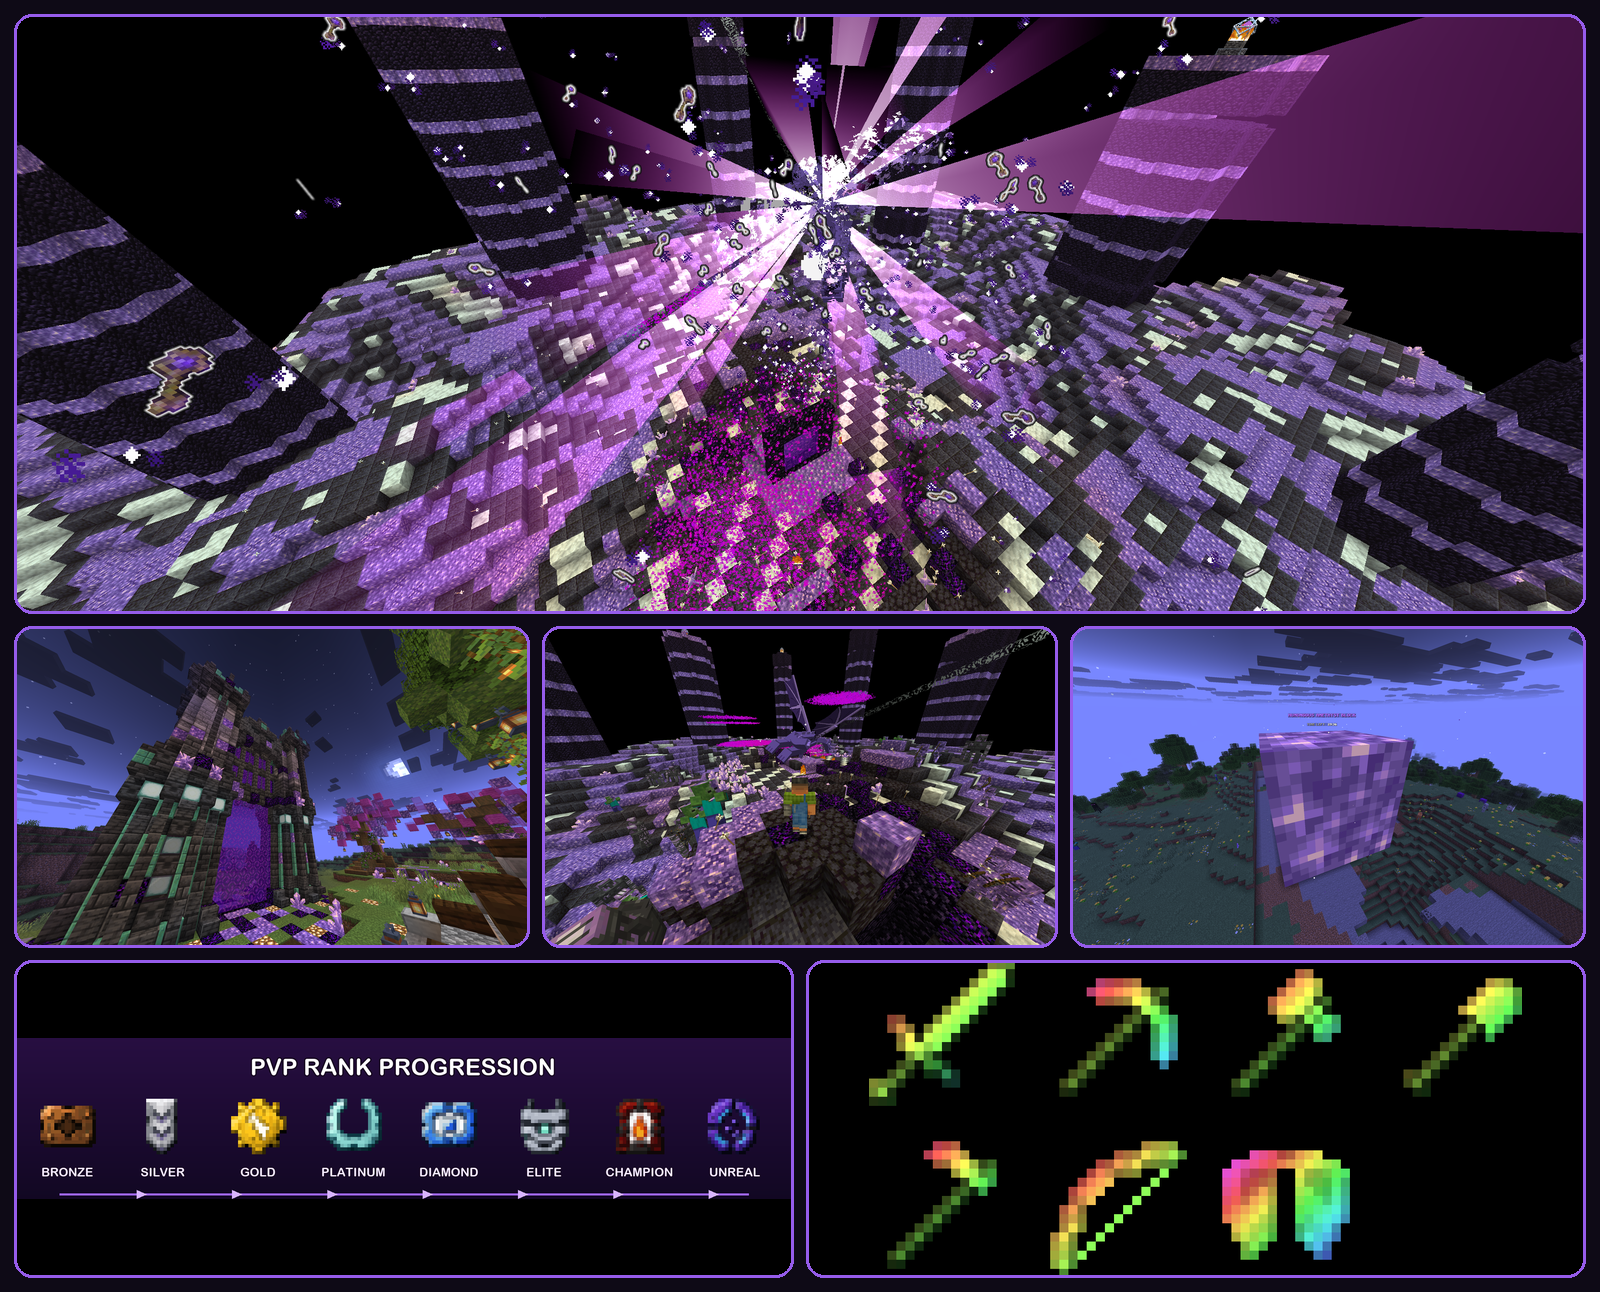
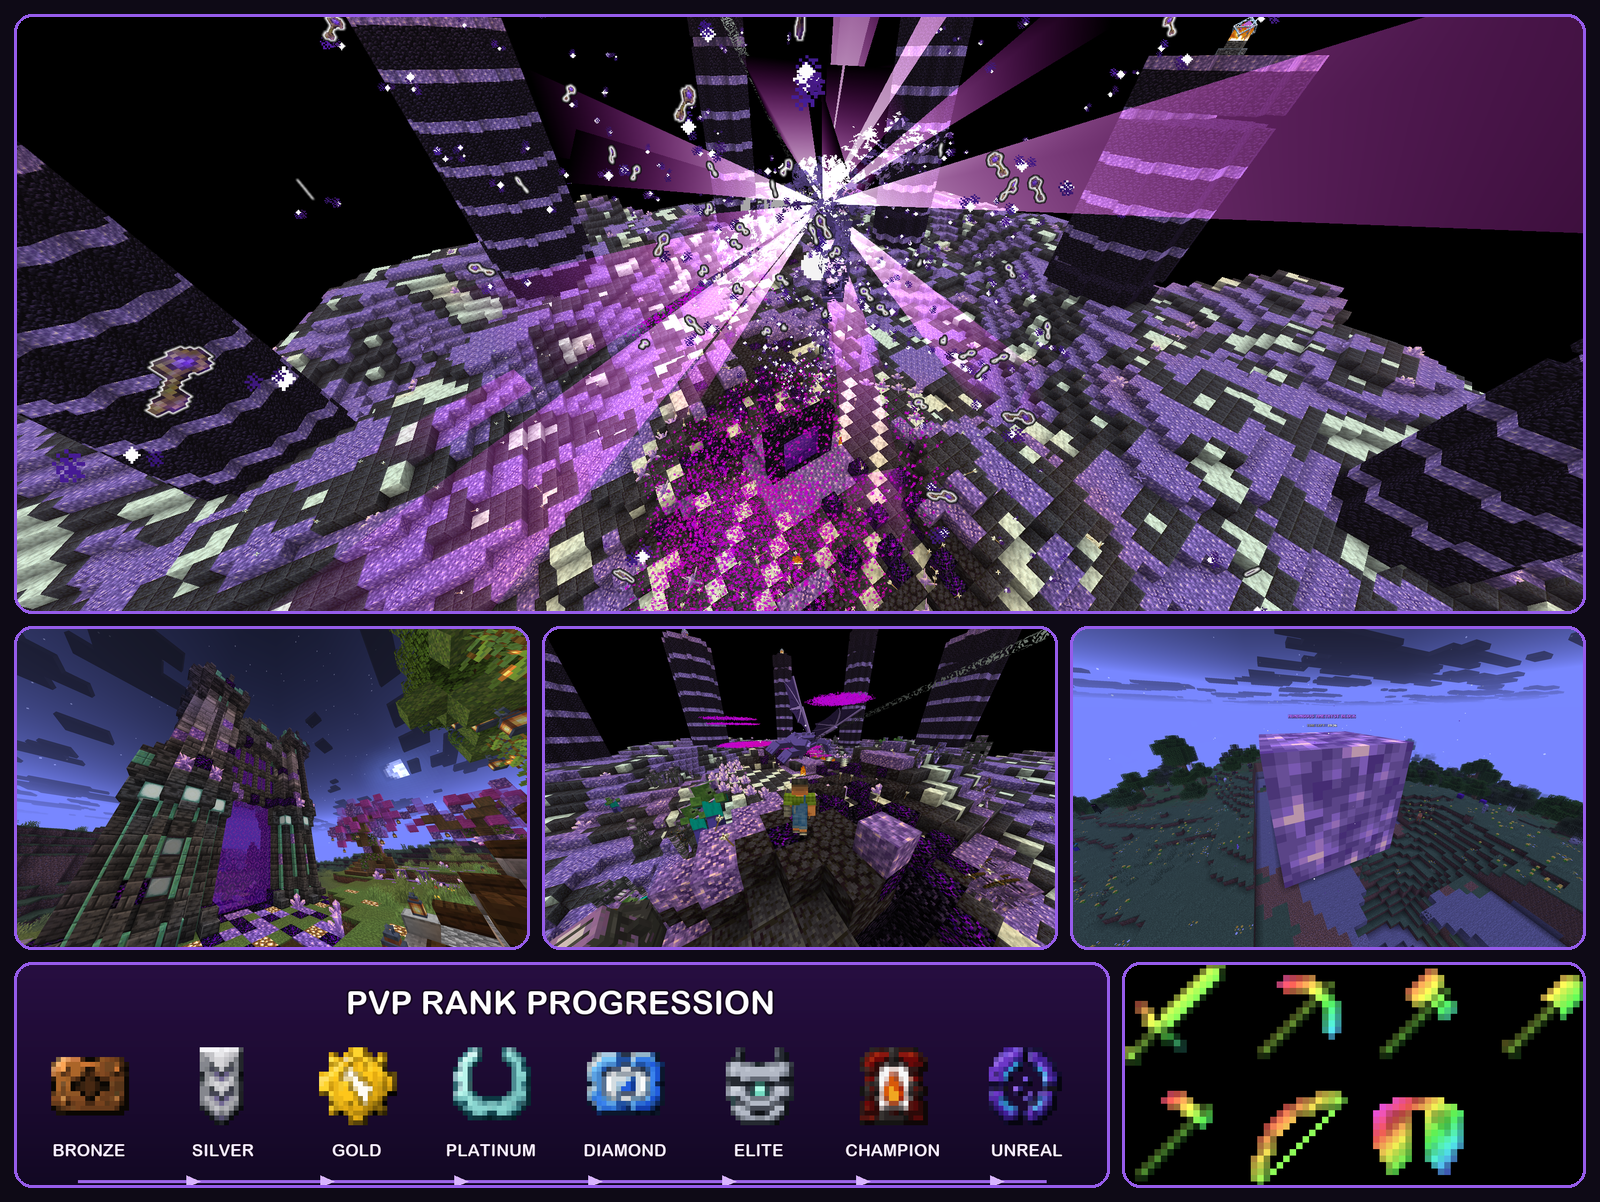
fix: justify the collage rows, and drop the closing plug
Fixed cells were the spacing bug. A 3.6:1 rank ladder letterboxed into a 2.45:1
cell is a third padding, the tile beside it padded by a different amount, and the
eye reads those uneven bands as broken rather than as design.

Rows are justified now: every tile in a row shares one height and is as wide as
its own picture wants to be, so each is filled edge to edge and both margins line
up exactly. Rows no longer need to be told what shape their contents are.

The two closing lines pushing people to the site are gone; the lead's link and the
button already carry that click.

diff --git a/devblog/notice_collage.py b/devblog/notice_collage.py
@@ -52,9 +52,9 @@ DEFAULT_TILES = {
         ("eternal-gear.png", "contain", ""),
     ],
 }
-#: Tiles per row under the hero, and how wide each row's cells sit. World shots
-#: want something near 16:9; designed panels are far wider than that.
-DEFAULT_ROWS = ((3, 1.60), (2, 2.45))
+#: How many tiles sit in each row under the hero. Their widths come from the
+#: pictures themselves, so nothing has to be told what shape it is.
+DEFAULT_ROWS = (3, 2)
 
 
 def _trim(image: Image.Image) -> Image.Image:
@@ -132,43 +132,67 @@ def _caption(tile: Image.Image, text: str) -> None:
     draw.text((x, y), text, font=font, fill=CAPTION_INK)
 
 
+def _load(source: Path, name: str, mode: str) -> Image.Image:
+    """The picture a tile will hold, with any dead margin already gone."""
+    path = source / name
+    if not path.exists():
+        raise SystemExit(f"{path} is missing; a collage never invents a screenshot.")
+    with Image.open(path) as raw:
+        image = raw.convert("RGB")
+    return _trim(image) if mode == "contain" else image
+
+
 def build(
     slug: str,
     tiles: list[tuple[str, str, str]],
     out: Path,
-    rows: tuple[tuple[int, float], ...] = DEFAULT_ROWS,
+    rows: tuple[int, ...] = DEFAULT_ROWS,
 ) -> Path:
-    """Write the collage for one update and return where it landed."""
+    """Write the collage for one update and return where it landed.
+
+    Rows are justified: every tile in a row shares one height, and each is as wide
+    as its own picture wants to be at that height. Fixed cells were the mistake —
+    a 3.6:1 rank ladder in a 2.45:1 cell is a third padding, and the eye reads the
+    inconsistent bands as broken spacing rather than as design.
+    """
     source = MEDIA / slug
     if len(tiles) < 2:
         raise SystemExit("A collage is a hero plus at least one tile.")
-
-    hero_width = WIDTH - 2 * MARGIN
-    boxes = [(MARGIN, MARGIN, hero_width, HERO_HEIGHT)]
-    y = MARGIN + HERO_HEIGHT
-    for count, aspect in rows:
-        cell_width = (hero_width - (count - 1) * GUTTER) // count
-        cell_height = round(cell_width / aspect)
-        y += GUTTER
-        boxes.extend(
-            (MARGIN + index * (cell_width + GUTTER), y, cell_width, cell_height)
-            for index in range(count)
-        )
-        y += cell_height
-    if len(boxes) != len(tiles):
+    if len(tiles) != 1 + sum(rows):
         raise SystemExit(
-            f"{len(tiles)} tiles will not fill {len(boxes)} places; adjust --rows."
+            f"{len(tiles)} tiles will not fill 1 hero plus {sum(rows)} places."
         )
+
+    usable = WIDTH - 2 * MARGIN
+    hero = _load(source, tiles[0][0], tiles[0][1])
+    placed: list[tuple[Image.Image, str, tuple[int, int, int, int]]] = [
+        (hero, tiles[0][2], (MARGIN, MARGIN, usable, HERO_HEIGHT))
+    ]
+
+    y = MARGIN + HERO_HEIGHT
+    index = 1
+    for count in rows:
+        row = [_load(source, name, mode) for name, mode, _ in tiles[index:index + count]]
+        aspects = [image.width / image.height for image in row]
+        span = usable - (count - 1) * GUTTER
+        height = round(span / sum(aspects))
+        widths = [round(aspect * height) for aspect in aspects]
+        # Rounding each tile independently leaves the row a pixel or two short of
+        # the margin; the last tile absorbs it so both edges line up exactly.
+        widths[-1] += span - sum(widths)
+        y += GUTTER
+        x = MARGIN
+        for image, width, (_, _, label) in zip(row, widths, tiles[index:index + count]):
+            placed.append((image, label, (x, y, width, height)))
+            x += width + GUTTER
+        y += height
+        index += count
 
     sheet = Image.new("RGB", (WIDTH, y + MARGIN), BACKDROP)
-    for (name, mode, label), (x, y, width, box_height) in zip(tiles, boxes):
-        path = source / name
-        if not path.exists():
-            raise SystemExit(f"{path} is missing; a collage never invents a screenshot.")
-        with Image.open(path) as raw:
-            tile = _fit(raw.convert("RGB"), (width, box_height), mode)
+    for image, label, (x, top, width, height) in placed:
+        tile = _fit(image, (width, height), "cover")
         _caption(tile, label)
-        sheet.paste(_rounded(tile, RADIUS), (x, y))
+        sheet.paste(_rounded(tile, RADIUS), (x, top))
 
     out.parent.mkdir(parents=True, exist_ok=True)
     sheet.save(out, optimize=True)
@@ -188,18 +212,12 @@ def main() -> int:
     parser.add_argument(
         "--rows",
         nargs="+",
-        metavar="COUNT:ASPECT",
-        help="tiles per row under the hero, e.g. 3:1.6 2:2.45",
+        metavar="COUNT",
+        help="tiles per row under the hero, e.g. 3 2",
     )
     args = parser.parse_args()
 
-    rows = DEFAULT_ROWS
-    if args.rows:
-        parsed = []
-        for entry in args.rows:
-            count, _, aspect = entry.partition(":")
-            parsed.append((int(count), float(aspect or 1.6)))
-        rows = tuple(parsed)
+    rows = tuple(int(entry) for entry in args.rows) if args.rows else DEFAULT_ROWS
 
     if args.tiles:
         tiles = []

diff --git a/tests/test_testserver.py b/tests/test_testserver.py
@@ -384,3 +384,79 @@ class WorldProtectionPluginTests(unittest.TestCase):
 
 if __name__ == "__main__":
     unittest.main()
+
+
+class NoticeCollageTests(unittest.TestCase):
+    """The collage composer: justified rows, no padding, no invented art."""
+
+    def _sheet(self, tmp, names, rows):
+        from PIL import Image
+
+        from devblog import notice_collage
+
+        media = Path(tmp) / "update-x"
+        media.mkdir(parents=True)
+        for name, (width, height) in names.items():
+            Image.new("RGB", (width, height), (90, 40, 160)).save(media / name)
+        out = Path(tmp) / "collage.png"
+        with mock.patch.object(notice_collage, "MEDIA", Path(tmp)):
+            notice_collage.build(
+                "update-x",
+                [(name, "cover", "") for name in names],
+                out,
+                rows,
+            )
+        return Image.open(out)
+
+    def test_a_row_of_mismatched_shapes_still_meets_both_margins(self):
+        # A 3.6:1 panel beside a 1.9:1 one used to letterbox whichever lost, and
+        # the uneven bands read as broken spacing rather than as design.
+        from devblog import notice_collage as nc
+
+        with TemporaryDirectory() as tmp:
+            sheet = self._sheet(
+                tmp,
+                {
+                    "hero.png": (1600, 900),
+                    "wide.png": (1800, 500),
+                    "square.png": (1254, 650),
+                },
+                (2,),
+            )
+            self.assertEqual(nc.WIDTH, sheet.width)
+            # The rightmost usable column must carry artwork somewhere down the
+            # bottom row, which is only true if that row was justified to fit.
+            # Sampled as a column, since the tile corners are deliberately rounded.
+            column = nc.WIDTH - nc.MARGIN - 3
+            band = range(sheet.height // 2, sheet.height - nc.MARGIN)
+            painted = sum(
+                sheet.getpixel((column, y)) != nc.BACKDROP for y in band
+            )
+            self.assertGreater(painted, 0, "the row stops short of the right margin")
+
+    def test_a_collage_refuses_to_invent_a_missing_screenshot(self):
+        from devblog import notice_collage as nc
+
+        with TemporaryDirectory() as tmp:
+            (Path(tmp) / "update-x").mkdir(parents=True)
+            with mock.patch.object(nc, "MEDIA", Path(tmp)):
+                with self.assertRaises(SystemExit):
+                    nc.build(
+                        "update-x",
+                        [("hero.png", "cover", ""), ("gone.png", "cover", "")],
+                        Path(tmp) / "out.png",
+                        (1,),
+                    )
+
+    def test_tiles_have_to_fill_the_rows_they_are_given(self):
+        from devblog import notice_collage as nc
+
+        with TemporaryDirectory() as tmp:
+            with mock.patch.object(nc, "MEDIA", Path(tmp)):
+                with self.assertRaises(SystemExit):
+                    nc.build(
+                        "update-x",
+                        [("a.png", "cover", ""), ("b.png", "cover", "")],
+                        Path(tmp) / "out.png",
+                        (3,),
+                    )

diff --git a/minecraft_bot/updatenotice.py b/minecraft_bot/updatenotice.py
@@ -160,9 +160,7 @@ def _built_in_preview_templates() -> tuple[UpdateTemplate, ...]:
                 "- 🌈 **Eternal Rainbow Gear** — never expires, **2 in 100,000**\n"
                 "- 🟣 **Giant & Humongous Amethyst** — bigger, tougher, rarer\n"
                 "- 🛡 **Griefing is over** — your base is finally safe\n"
-                "> ⏳ **The Amethyst Crate closes 12 September, 15:00 UTC.**\n\n"
-                "**Every reward, every drop rate and every screenshot is on the site.**\n"
-                "*Go look before somebody beats you to it.*"
+                "> ⏳ **The Amethyst Crate closes 12 September, 15:00 UTC.**"
             ),
             also=(
                 "Bigger Amethyst Blocks, Dragon leaderboards and clan battles, "

diff --git a/tests/test_minecraft_announce.py b/tests/test_minecraft_announce.py
@@ -391,8 +391,9 @@ class UpdateTemplateTests(unittest.TestCase):
         )
         self.assertIsNone(showcase.url, "only the lead links the article")
         self.assertEqual(template.details, showcase.description)
-        # It has to end by sending them somewhere, or the notice is the whole update.
-        self.assertIn("on the site", showcase.description.lower())
+        # The article is reached by the lead's link and the button, so the copy is
+        # free to stop at the update itself rather than advertising the site.
+        self.assertEqual(template.url, lead.url)
         self.assertLessEqual(sum(len(embed) for embed in embeds), 6000)
 
     def test_media_urls_are_stamped_with_the_file_they_point_at(self):
